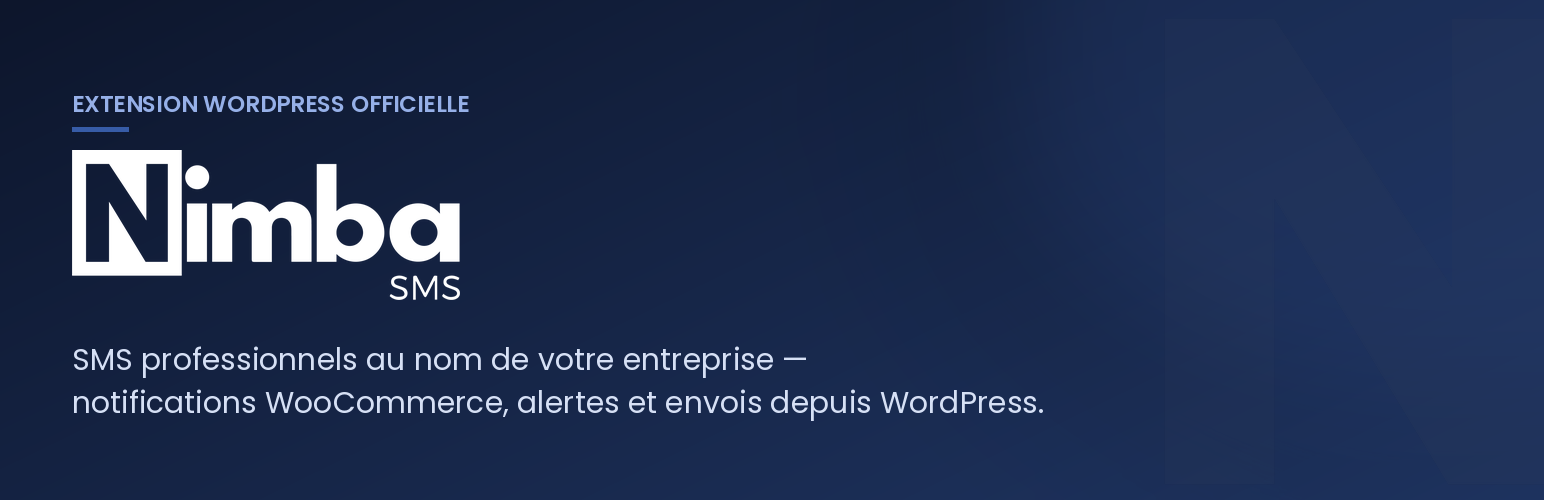
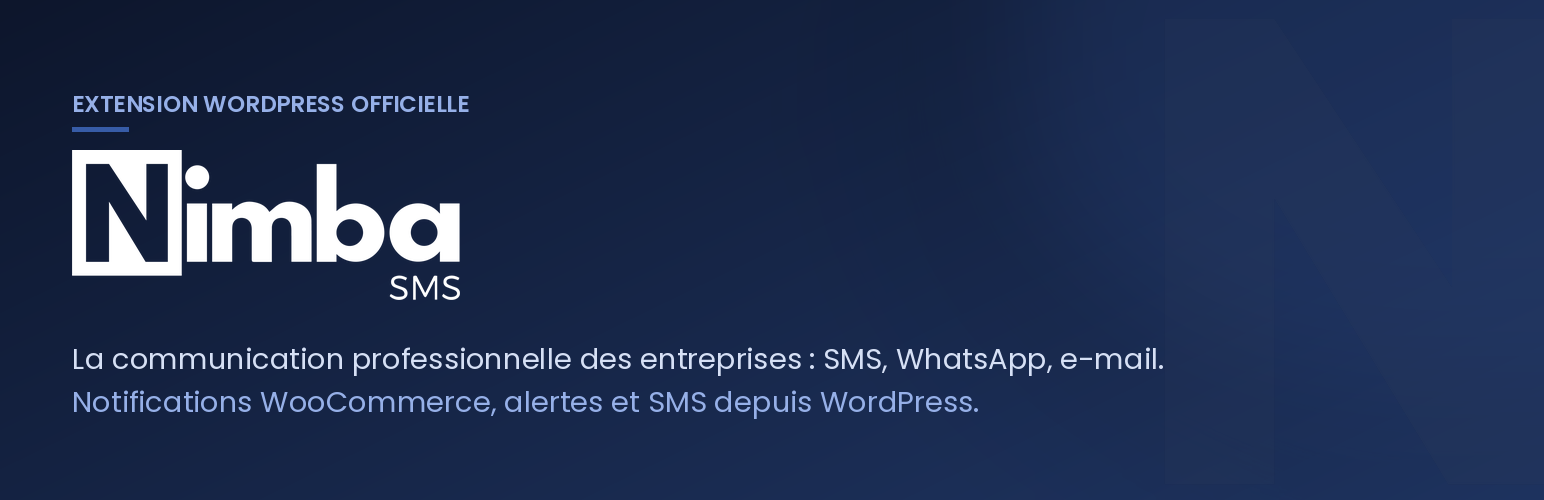
Update narrative: Nimba SMS as multi-channel business communication platform (SMS, WhatsApp, email); add support contact

Changed region(s): [[0.0311, 0.69, 0.7461, 0.75], [0.0311, 0.78, 0.6839, 0.84]]

diff --git a/nimbasms.php b/nimbasms.php
@@ -2,7 +2,7 @@
 /**
  * Plugin Name:       Nimba SMS
  * Plugin URI:        https://github.com/nimbasms/nimbasms-wordpress
- * Description:       Envoyez des SMS professionnels depuis WordPress via l'API Nimba SMS : notifications, WooCommerce, envoi manuel et journal des envois.
+ * Description:       Connectez WordPress à Nimba SMS, la plateforme de communication professionnelle des entreprises (SMS, WhatsApp, e-mail) : notifications WooCommerce, alertes, envoi de SMS et journal.
  * Version:           1.0.0
  * Requires at least: 6.0
  * Requires PHP:      7.4

diff --git a/README.md b/README.md
@@ -1,6 +1,8 @@
 # Nimba SMS for WordPress
 
-Extension WordPress officielle de [Nimba SMS](https://www.nimbasms.com) — envoyez des SMS professionnels avec le nom de votre entreprise, directement depuis WordPress.
+Extension WordPress officielle de [Nimba SMS](https://www.nimbasms.com), la plateforme de communication professionnelle des entreprises (SMS, WhatsApp, e-mail — et d'autres canaux à venir). Cette extension couvre le canal SMS : envoyez des SMS avec le nom de votre entreprise comme expéditeur, directement depuis WordPress.
+
+Support : [support@nimbasms.com](mailto:support@nimbasms.com)
 
 [![WordPress Plugin](https://img.shields.io/badge/WordPress-6.0%2B-blue.svg)](https://wordpress.org/plugins/nimbasms/)
 [![License: GPL v2](https://img.shields.io/badge/License-GPLv2-blue.svg)](LICENSE)
